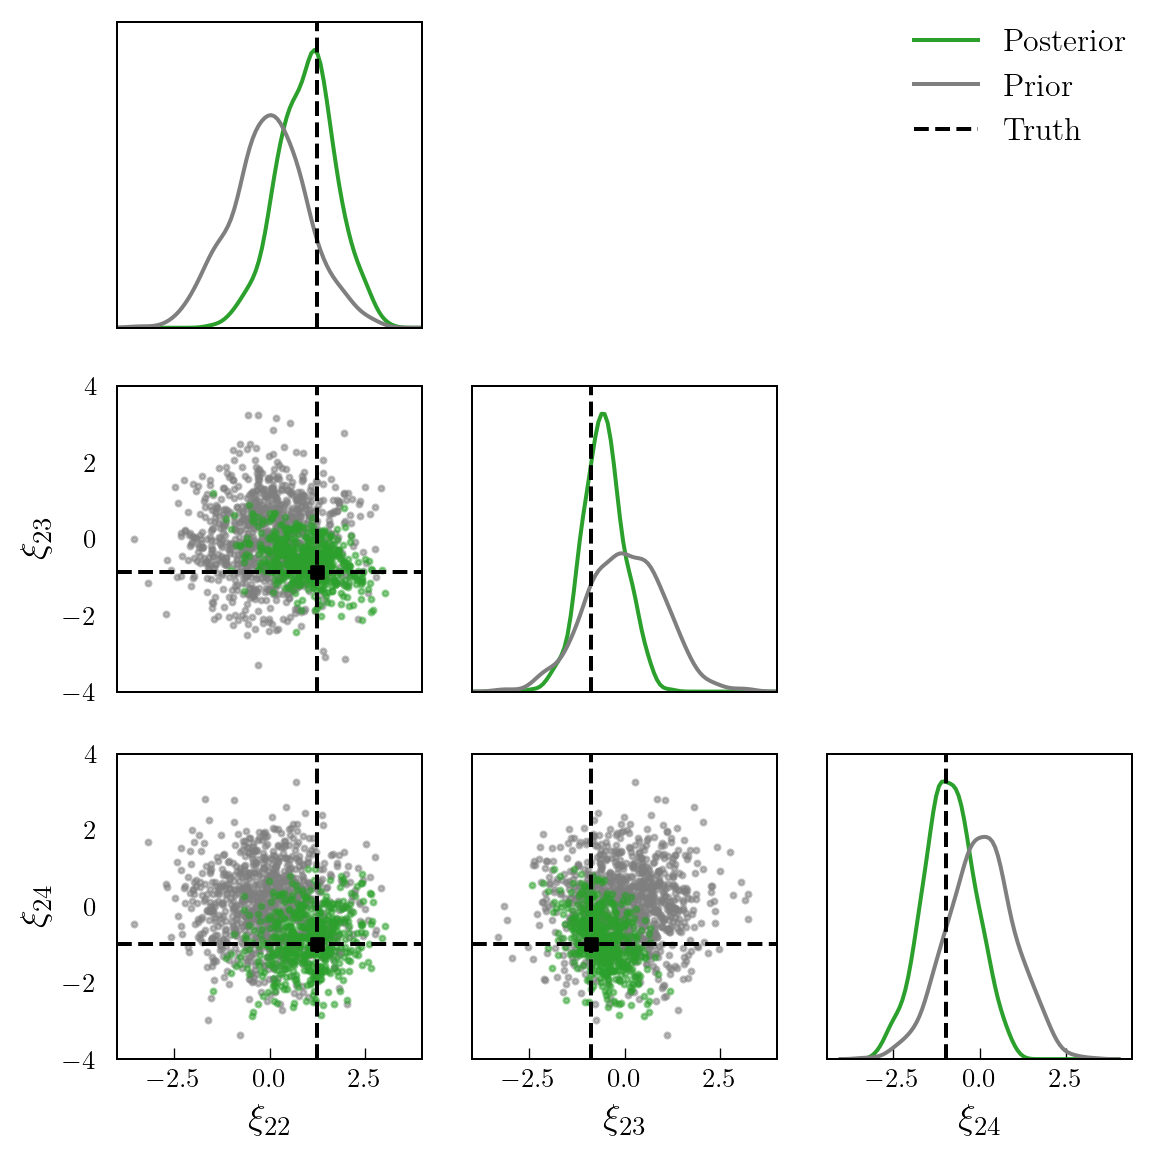
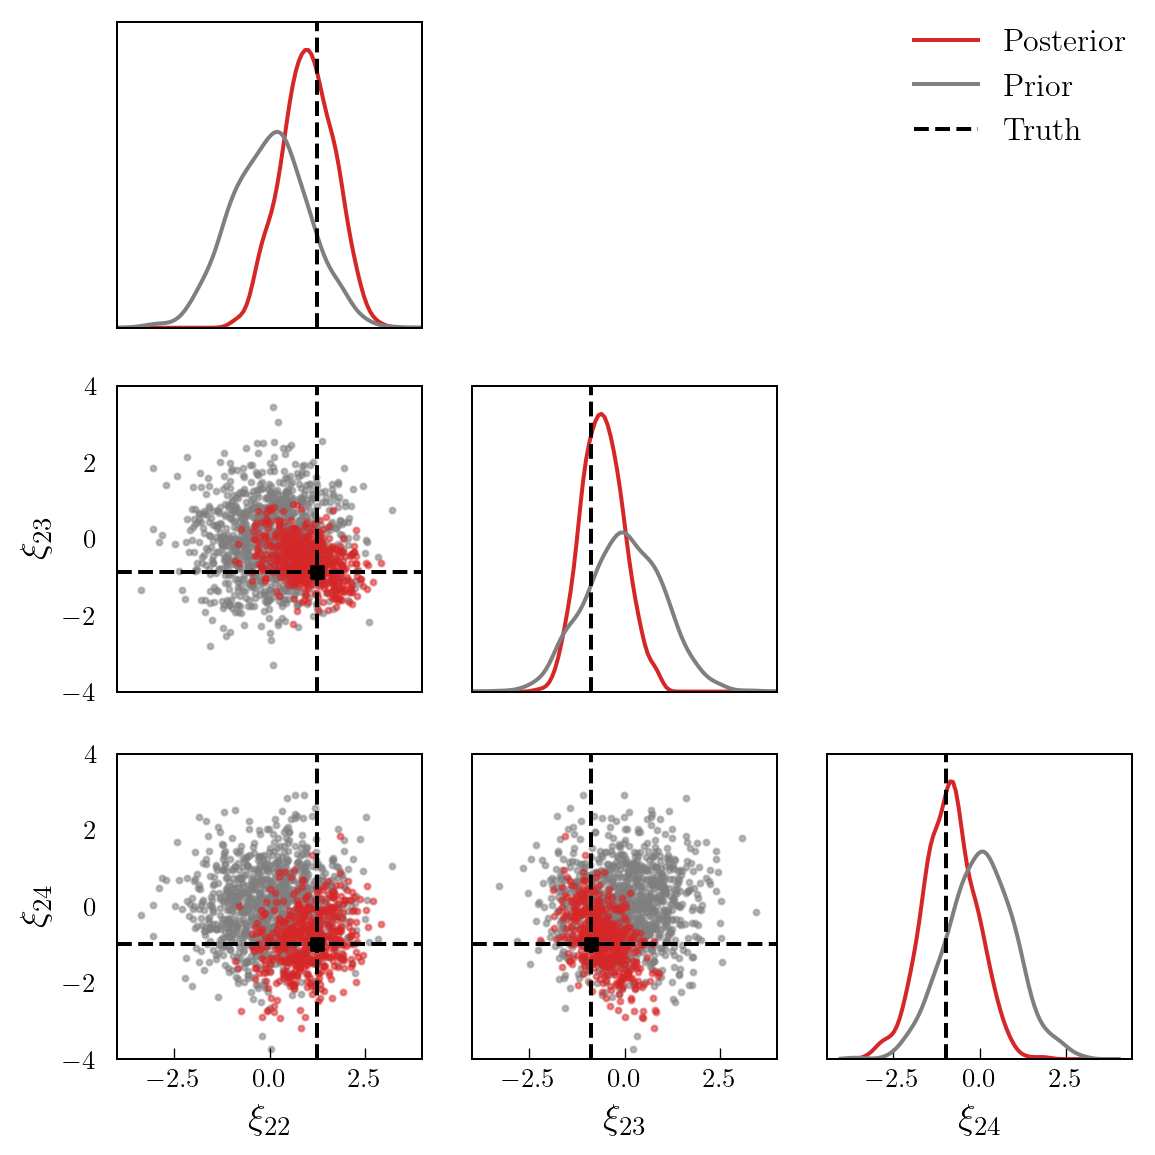
Update examples

diff --git a/examples/shock/example.py b/examples/shock/example.py
@@ -6,7 +6,7 @@ import torch
 import deep_tensor as dt
 
 from preconditioner import construct_preconditioner
-from examples.plotting import pairplot
+from examples.plotting import add_arrows, pairplot
 
 
 torch.manual_seed(0)
@@ -149,3 +149,67 @@ pairplot(
 res = dt.run_importance_sampling(potentials_dirt, potentials_true)
 ess_ratio = res.ess / potentials_dirt.numel()
 print(f"ESS ratio: {ess_ratio:.2f}")
+
+#%% Comparison between different bases
+
+bases_dict = {
+    "Fourier": dt.Fourier,
+    "Legendre": dt.Legendre,
+    "Piecewise": dt.Lagrange1
+}
+
+args_dict = {
+    "Fourier": [7, 10, 12, 15],
+    "Legendre": [15, 20, 25, 30],
+    "Piecewise": [15, 20, 25, 30],
+}
+
+colours = {
+    "Fourier": "tab:blue",
+    "Legendre": "tab:red",
+    "Piecewise": "tab:green"
+}
+
+results = {name: {"iact": [], "num_eval": []} for name in bases_dict}
+
+tt_options = dt.TTOptions(verbose=False)
+dirt_options = dt.DIRTOptions(verbose=False)
+
+for name in bases_dict:
+    for args in args_dict[name]:
+
+        bases = bases_dict[name](args)
+
+        dirt = dt.DIRT(
+            negloglik,
+            neglogpri, 
+            preconditioner,
+            bases,
+            bridge=dt.SingleLayer(),
+            tt_options=tt_options,
+            dirt_options=dirt_options
+        )
+
+        # Run independence MCMC sampler
+        samples_dirt, potentials_dirt = dirt.eval_irt(rs)
+        potentials_true = negloglik(samples_dirt) + neglogpri(samples_dirt)
+        res = dt.run_independence_sampler(samples_dirt, potentials_dirt, potentials_true)
+
+        results[name]["iact"].append(res.iacts.max())
+        results[name]["num_eval"].append(dirt.num_eval)
+
+fig, ax = plt.subplots(figsize=(6.5, 3.5))
+
+for i, name in enumerate(results):
+    num_eval = results[name]["num_eval"]
+    iact = results[name]["iact"]
+    ax.plot(num_eval, iact, color=colours[name], zorder=i)
+    ax.scatter(num_eval, iact, c=colours[name], marker="s", label=name, zorder=i)
+
+ax.set_xlabel("Number of likelihood evaluations")
+ax.set_ylabel("Max. IACT")
+ax.set_box_aspect(1)
+ax.legend(loc="center left", bbox_to_anchor=(1, 0.5))
+add_arrows(ax)
+
+plt.show()

diff --git a/deep_tensor/irt/sirt.py b/deep_tensor/irt/sirt.py
@@ -25,6 +25,15 @@ SUBSET2DIRECTION = {
 
 class AbstractSIRT():
 
+    @property 
+    def preconditioner(self) -> Preconditioner:
+        return self._preconditioner
+    
+    @preconditioner.setter
+    def preconditioner(self, value: Preconditioner) -> None:
+        self._preconditioner = value 
+        return
+
     @property
     def input_data(self) -> InputData:
         return self._input_data 
@@ -540,18 +549,18 @@ class AbstractSIRT():
         Bs = self.Bs_f
         cdfs = self.oned_cdfs
 
-        Gs: dict[int, Tensor] = {}
-        Gs_deriv: dict[int, Tensor] = {}
-        Ps: dict[int, Tensor] = {}
-        Ps_deriv: dict[int, Tensor] = {}
-        Ps_grid: dict[int, Tensor] = {}
+        Gs: Dict[int, Tensor] = {}
+        Gs_deriv: Dict[int, Tensor] = {}
+        Ps: Dict[int, Tensor] = {}
+        Ps_deriv: Dict[int, Tensor] = {}
+        Ps_grid: Dict[int, Tensor] = {}
 
-        ps_marg: dict[int, Tensor] = {}
+        ps_marg: Dict[int, Tensor] = {}
         ps_marg[-1] = self.z
-        ps_marg_deriv: dict[int, Tensor] = {}
-        ps_grid: dict[int, Tensor] = {}
-        ps_grid_deriv: dict[int, Tensor] = {}
-        wls: dict[int, Tensor] = {}
+        ps_marg_deriv: Dict[int, Dict[int, Tensor]] = {}
+        ps_grid: Dict[int, Tensor] = {}
+        ps_grid_deriv: Dict[int, Dict[int, Tensor]] = {}
+        wls: Dict[int, Tensor] = {}
 
         n_ls = ls.shape[0]
         Jacs = torch.zeros((self.dim, n_ls, self.dim))

diff --git a/examples/sir/model.py b/examples/sir/model.py
@@ -35,7 +35,7 @@ class SIRModel():
         S, I, _ = y.reshape(3, -1)
         return np.array([-b*S*I, b*S*I - g*I, g*I]).flatten()
     
-    def _solve_fwd(self, params: ndarray) -> Tensor:
+    def _solve_fwd(self, params: Tensor) -> Tensor:
         """Solves the forward problem with given parameters, and 
         returns the number of infected people at the desired times.
         """
@@ -56,6 +56,6 @@ class SIRModel():
         # For an unknown reason, the ODE solver fails with a 
         # segmentation fault if the dimension of the state is quite 
         # large.
-        params = [params[i:i+n_batch] for i in range(0, params.shape[0], n_batch)]
-        ys = np.vstack([self._solve_fwd(p) for p in params])
+        param_batches = [params[i:i+n_batch] for i in range(0, params.shape[0], n_batch)]
+        ys = np.vstack([self._solve_fwd(p) for p in param_batches])
         return torch.tensor(ys)

diff --git a/examples/plotting.py b/examples/plotting.py
@@ -94,7 +94,7 @@ def pairplot(
                 
                 xs_kde = torch.linspace(*bounds[j], steps=100)
                 density = gaussian_kde(xs[:, j])(xs_kde)
-                axes[i][j].plot(xs_kde, density, c="tab:green", lw=1.5, label=x_label)
+                axes[i][j].plot(xs_kde, density, c="tab:red", lw=1.5, label=x_label)
                 max_density = max(density)
                 
                 if ys is not None:
@@ -117,7 +117,7 @@ def pairplot(
 
                 axes[i][j].set_xlim(*bounds[j])
                 axes[i][j].set_ylim(*bounds[i])
-                axes[i][j].scatter(xs[:, j], xs[:, i], s=4, c="tab:green", alpha=0.5, zorder=1)
+                axes[i][j].scatter(xs[:, j], xs[:, i], s=4, c="tab:red", alpha=0.5, zorder=1)
                 
                 if j > 0:
                     axes[i][j].yaxis.set_ticklabels([])

diff --git a/deep_tensor/polynomials/basis_1d.py b/deep_tensor/polynomials/basis_1d.py
@@ -362,13 +362,11 @@ class Basis1D(abc.ABC, object):
         dpdls = self.eval_basis_deriv(ls)
         wls = self.eval_measure(ls)[:, None]
         gradfwls = dpdls @ coeffs * wls
-
         # Compute second term of product rule
         if not self.constant_weight:
             basis_vals = self.eval_basis(ls)
             gradwls = self.eval_measure_deriv(ls)[:, None]
             gradfwls += (basis_vals @ coeffs) * gradwls
-
         return gradfwls
  
     def mass_r(self, interp_w: Tensor) -> Tensor:
